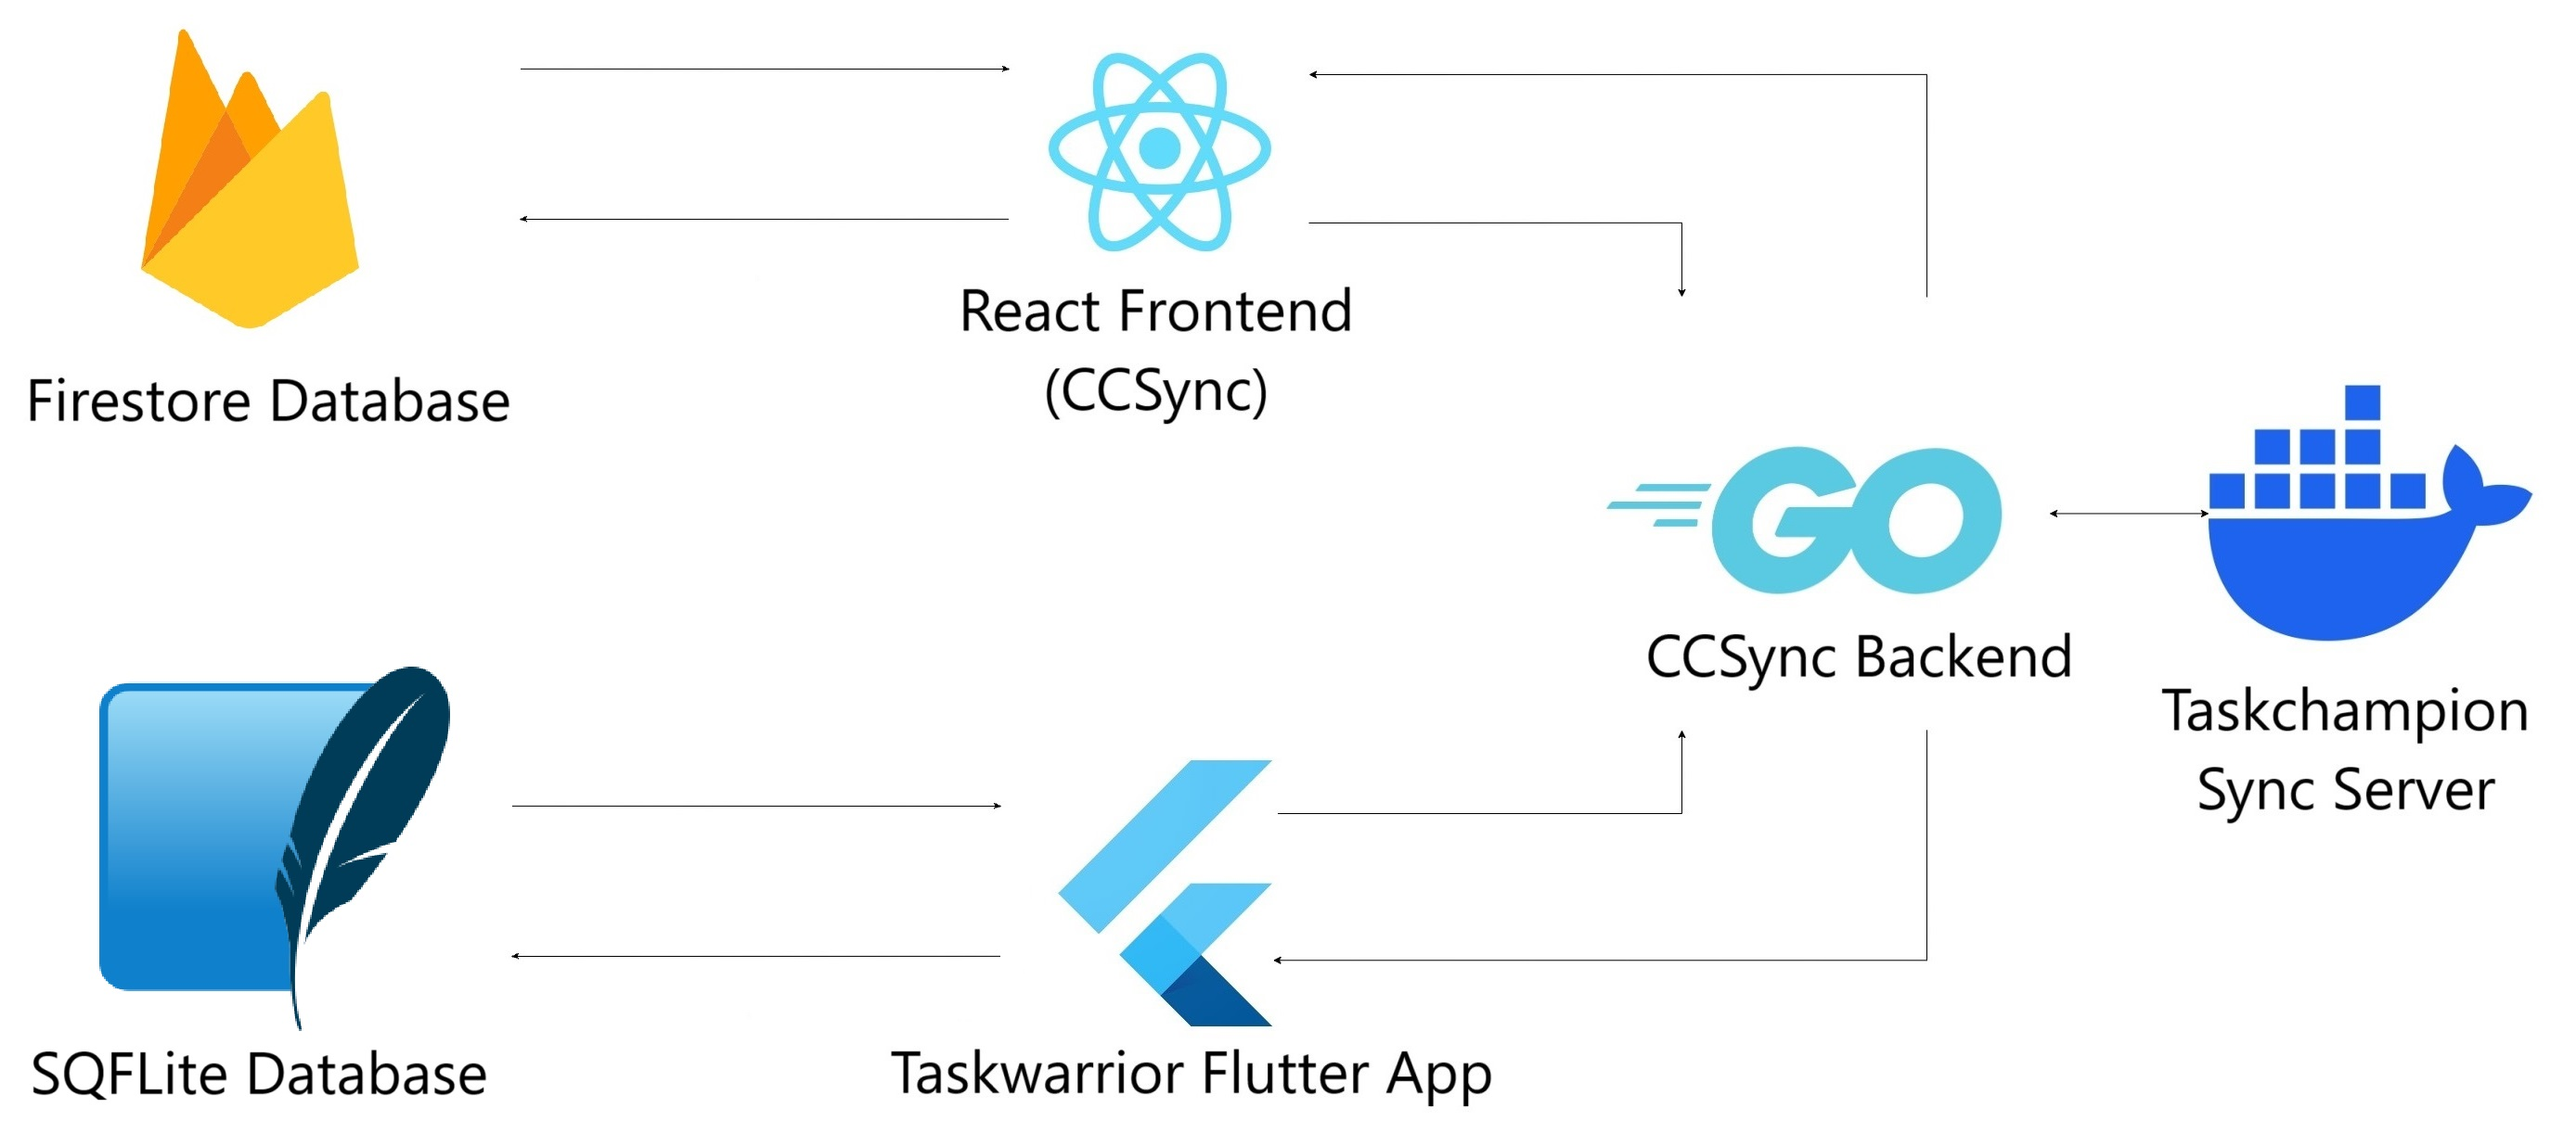
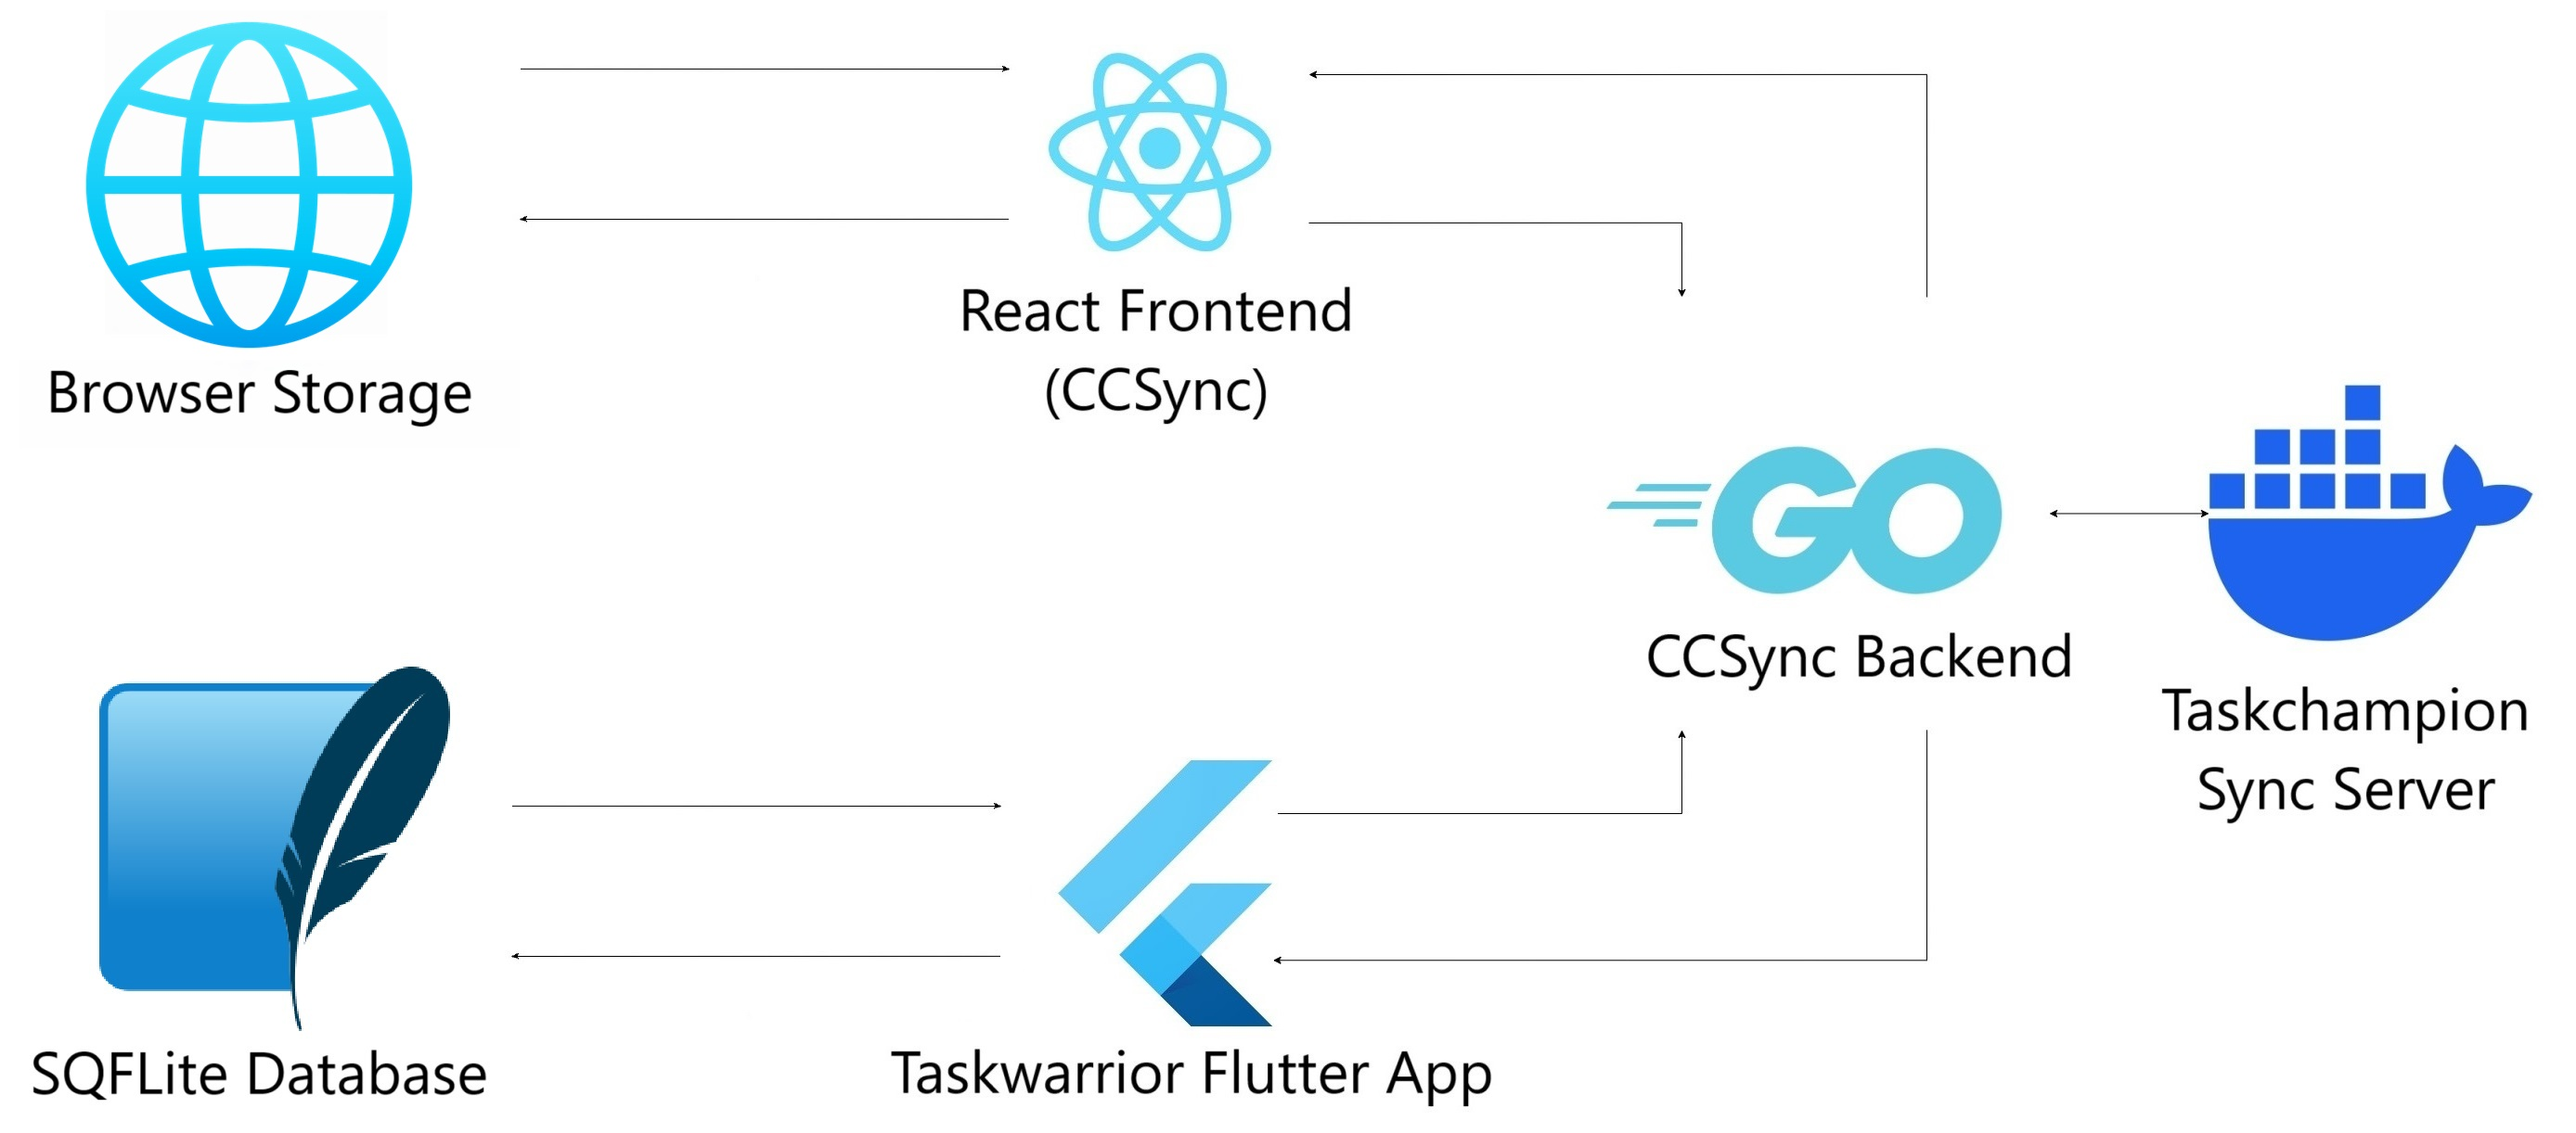
docs: update architecture and documentation

Changed region(s): [[0.0, 0.0, 0.2169, 0.3732]]

diff --git a/docs/index.md b/docs/index.md
@@ -24,8 +24,6 @@ The diagram below is a representation of how various components are connected to
 
 - Google OAuth Keys
 
-- Firestore Configuration
-
 ### Steps to setup the frontend
 
 1.  Navigate to the frontend directory and run the command:
@@ -164,55 +162,3 @@ Before starting the frontend, Go to [Google cloud credential page](https://conso
 8.  You will be presented with your newly generated credentials that are required for setting up the backend.
 
 ---
-
-## Firestore configuration
-
-Note: This step is necessary only for the frontend setup, and can be skipped if you plan to use only the backend API with the Taskwarrior Flutter App
-
-1.  Create a new project and then setup a Firestore database.
-
-2.  Add a collection of the name tasks
-
-3.  The following fields must be there in the data model of the collection:
-
-        description (string)
-        due (string)
-        email (string)
-        end (string)
-        entry (string)
-        id (number)
-        modified (string)
-        priority (string)
-        project (string)
-        status (string)
-        tags (array : string)
-        urgency (number)
-        uuid (string)
-
-4.  Add web support for you database and download the config file provided by Google, it would have this format:
-
-        import { initializeApp } from "firebase/app";
-        const firebaseConfig = {
-        apiKey: "",
-        authDomain: "",
-        projectId: "",
-        storageBucket: "",
-        messagingSenderId: "",
-        appId: "",
-        measurementId: ""
-        };
-        export const app = initializeApp(firebaseConfig);
-6.  Download it, and store it at `frontend/src/lib/` by the name `firebase.ts`
-    
-7. Make sure to update the Firestore rules to the given values, so as to become able to access them over the web frontend:
-
-        rules_version = '2';
-        service cloud.firestore {
-        match /databases/{database}/documents {
-        match /{document=**} {
-        allow read, write: if true;
-            }
-          }
-        }
-
-

diff --git a/docs/patch.md b/docs/patch.md
@@ -1,3 +1,4 @@
 # Patch Notes
 
+- Firestore Configuration is no longer required. All the tasks now get stored locally inside your Browser!
 - Added Rate Limiter
